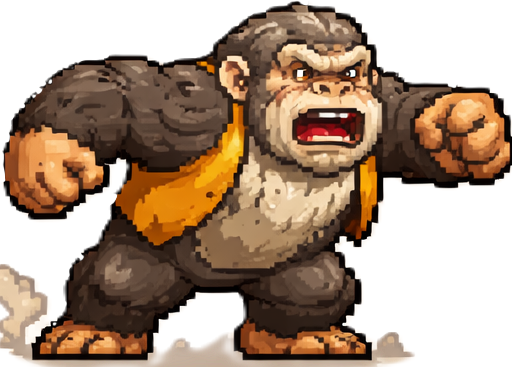
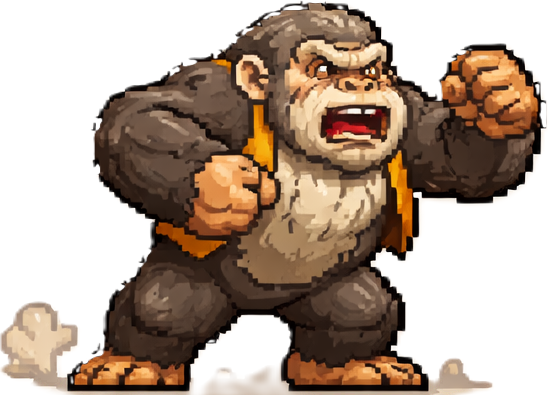
commence animation gorille

diff --git a/JungleTrouble/UCJeu.xaml b/JungleTrouble/UCJeu.xaml
@@ -33,7 +33,7 @@
                 <Image x:Name="imgParcheminFin"  Source="/Images/parchemin.png" Stretch="Fill" Canvas.Left="213" Canvas.Top="68" Height="314" Width="374" Visibility="Hidden"/>
                 <Button x:Name="butRestart" Content="Recommencer" Canvas.Left="348" Canvas.Top="310" Height="30" Width="104" HorizontalAlignment="Center" VerticalAlignment="Top" Visibility="Hidden"/>
                 <Label x:Name="labFin" FontFamily="Snap ITC" FontSize="30" Content="" Canvas.Left="269" Canvas.Top="136" Height="74" Width="262" HorizontalAlignment="Left" VerticalAlignment="Top" VerticalContentAlignment="Center" HorizontalContentAlignment="Center" Foreground="Black" Visibility="Hidden"/>
-                <Image x:Name="imgkonkeydong" Height="110" Canvas.Left="2" Source="/Images/gorille/gorille1.png" Stretch="Fill" Canvas.Top="-2" Width="86"/>
+                <Image x:Name="imgkonkeydong" Height="110" Canvas.Left="2" Source="/Images/gorille/gorille0.png" Stretch="Fill" Canvas.Top="-2" Width="86"/>
 
             </Canvas>
         </Grid>

diff --git a/JungleTrouble/UCJeu.xaml.cs b/JungleTrouble/UCJeu.xaml.cs
@@ -45,18 +45,22 @@ namespace JungleTrouble
         private bool estSurEchelle = false;
         private double vitesseGrimpe = 200;
         private BitmapImage[] persoMarche = new BitmapImage[2];
+        private BitmapImage[] gorilles = new BitmapImage[3];
         private int pas = 0;
         private double nbTonneaux = 1;
         private double vitesseTonneaux = 2;
         private Image[] imgTonneau = new Image[3];
         private int vies = 3;
         public bool perdu = false;
+        private int minuteri = 0;
+        private bool testg = true;
 
         public UCJeu()
         {
             InitializeComponent();
             InitializeTimer();
             InitializeImages();
+            animegorille();
         }
 
         private void MenuItem_Click(object sender, RoutedEventArgs e)
@@ -374,6 +378,11 @@ namespace JungleTrouble
                 persoMarche[i] = new BitmapImage(new Uri($"pack://application:,,,/Images/Perso{MainWindow.Perso}/perso{MainWindow.Perso + (i + 1)}.png"));
                 Console.WriteLine("Image " + i + " " + persoMarche[i]);
             }
+            for(int i = 0; i < 3; i++)
+            {
+                gorilles[i] = new BitmapImage(new Uri($"pack://application:,,,/Images/gorille/gorille{i}.png"));
+                Console.WriteLine("Image " + i + " " + gorilles[i]);
+            }
             Console.WriteLine(persoMarche);
             imgTonneau[0] = imgTonneau1;
             imgTonneau[1] = imgTonneau2;
@@ -394,11 +403,20 @@ namespace JungleTrouble
         {
             for (int i = 0; i < nbTonneaux; i++)
             {
+                
                 double X = Canvas.GetLeft(imgTonneau[i]);
                 double Y = Canvas.GetBottom(imgTonneau[i]);
-                if (X == 415 && Y == 30)
-                { 
-                    
+                imgkonkeydong.Source = gorilles[2];
+                if (Canvas.GetBottom(imgTonneau[i]) >= 400 || testg== true)
+                {
+                    imgkonkeydong.Source = gorilles[0];
+                    testg = false;
+
+                }
+                if (minuteri == 4)
+                {
+                    imgkonkeydong.Source = gorilles[1];
+                    testg = true;
                 }
 
             }
